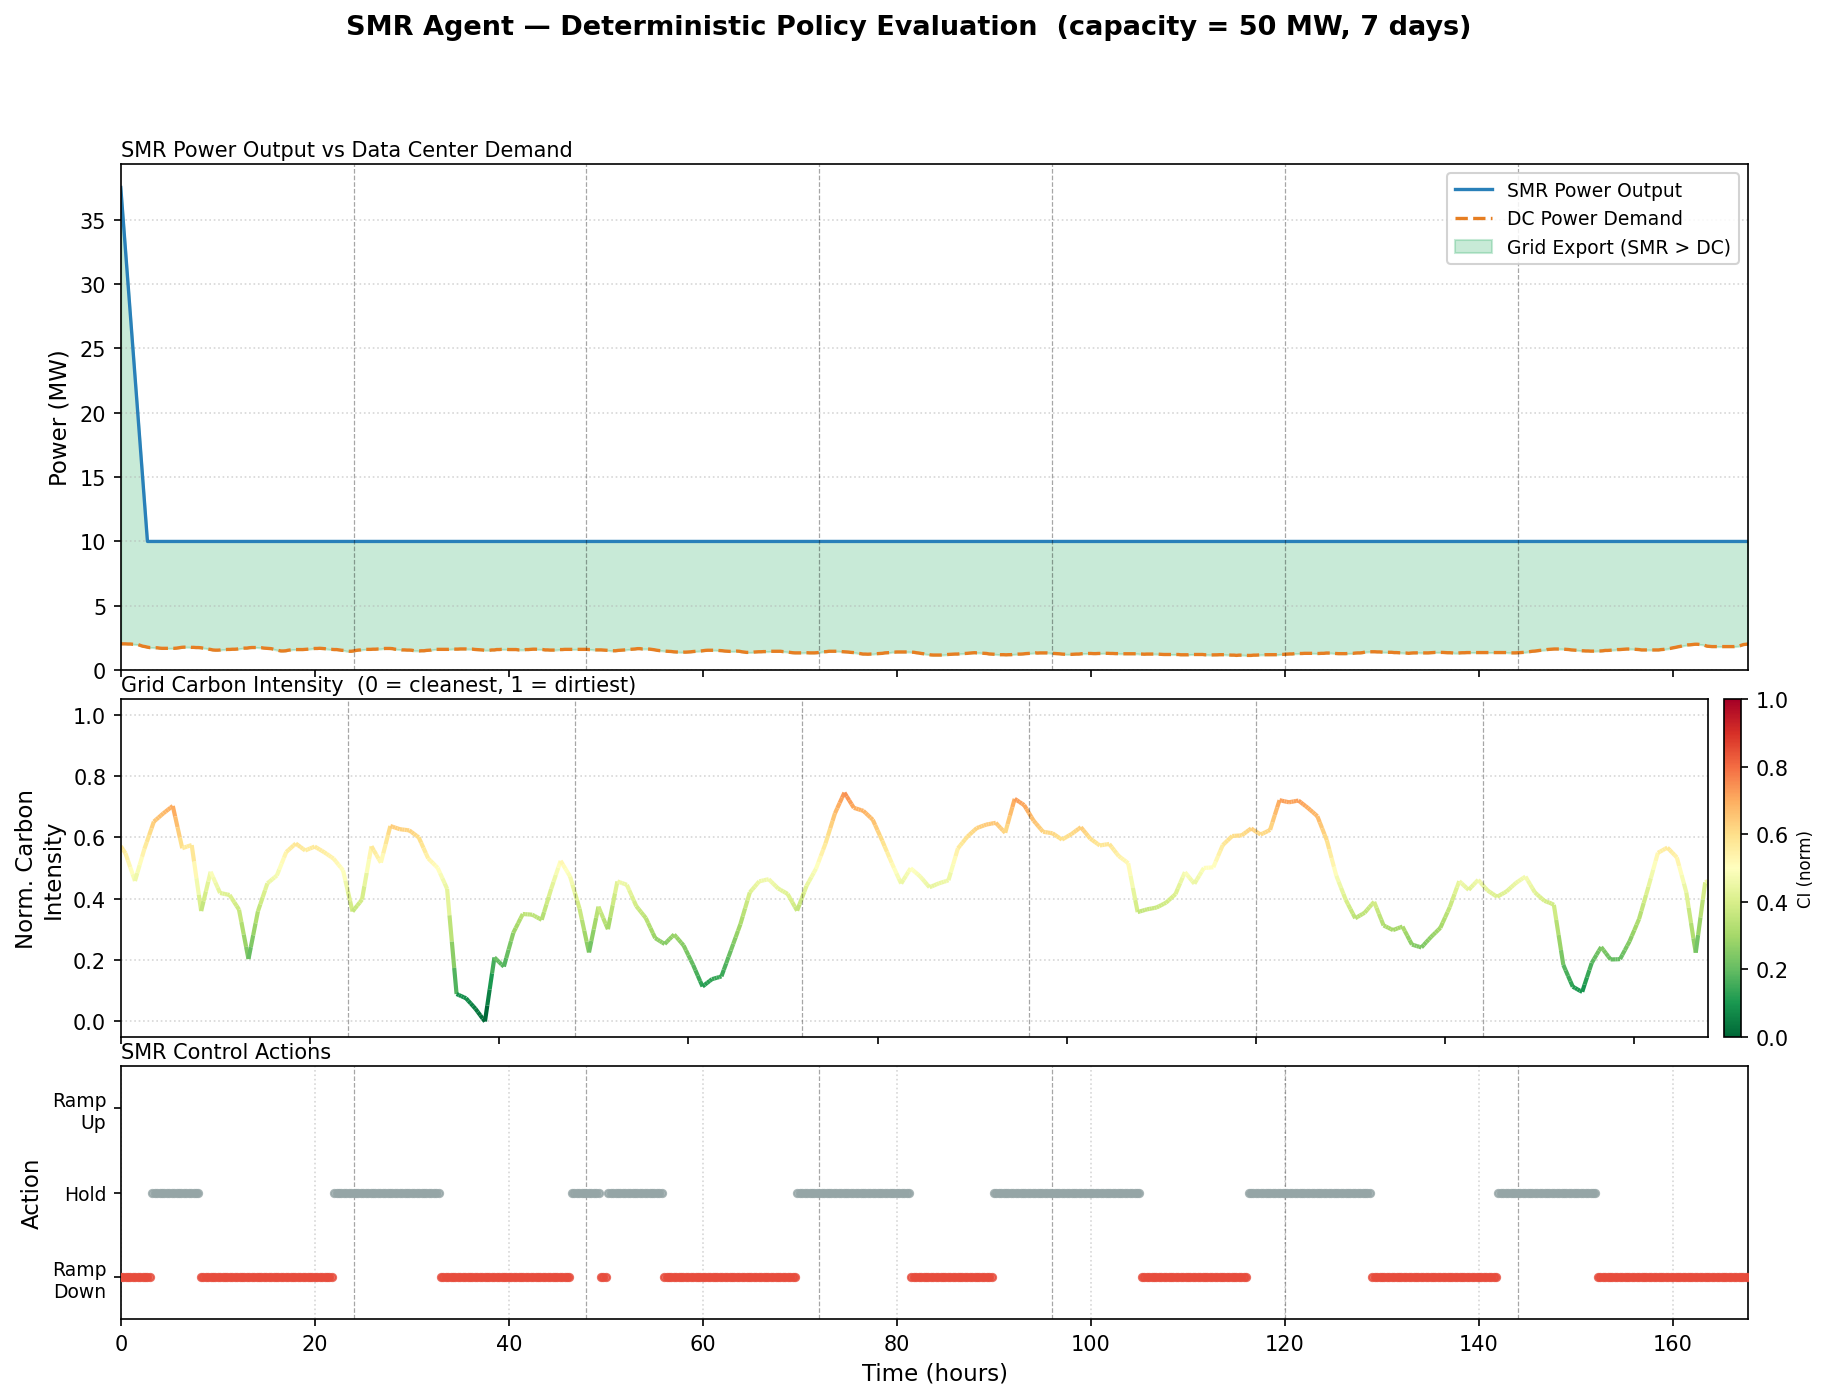
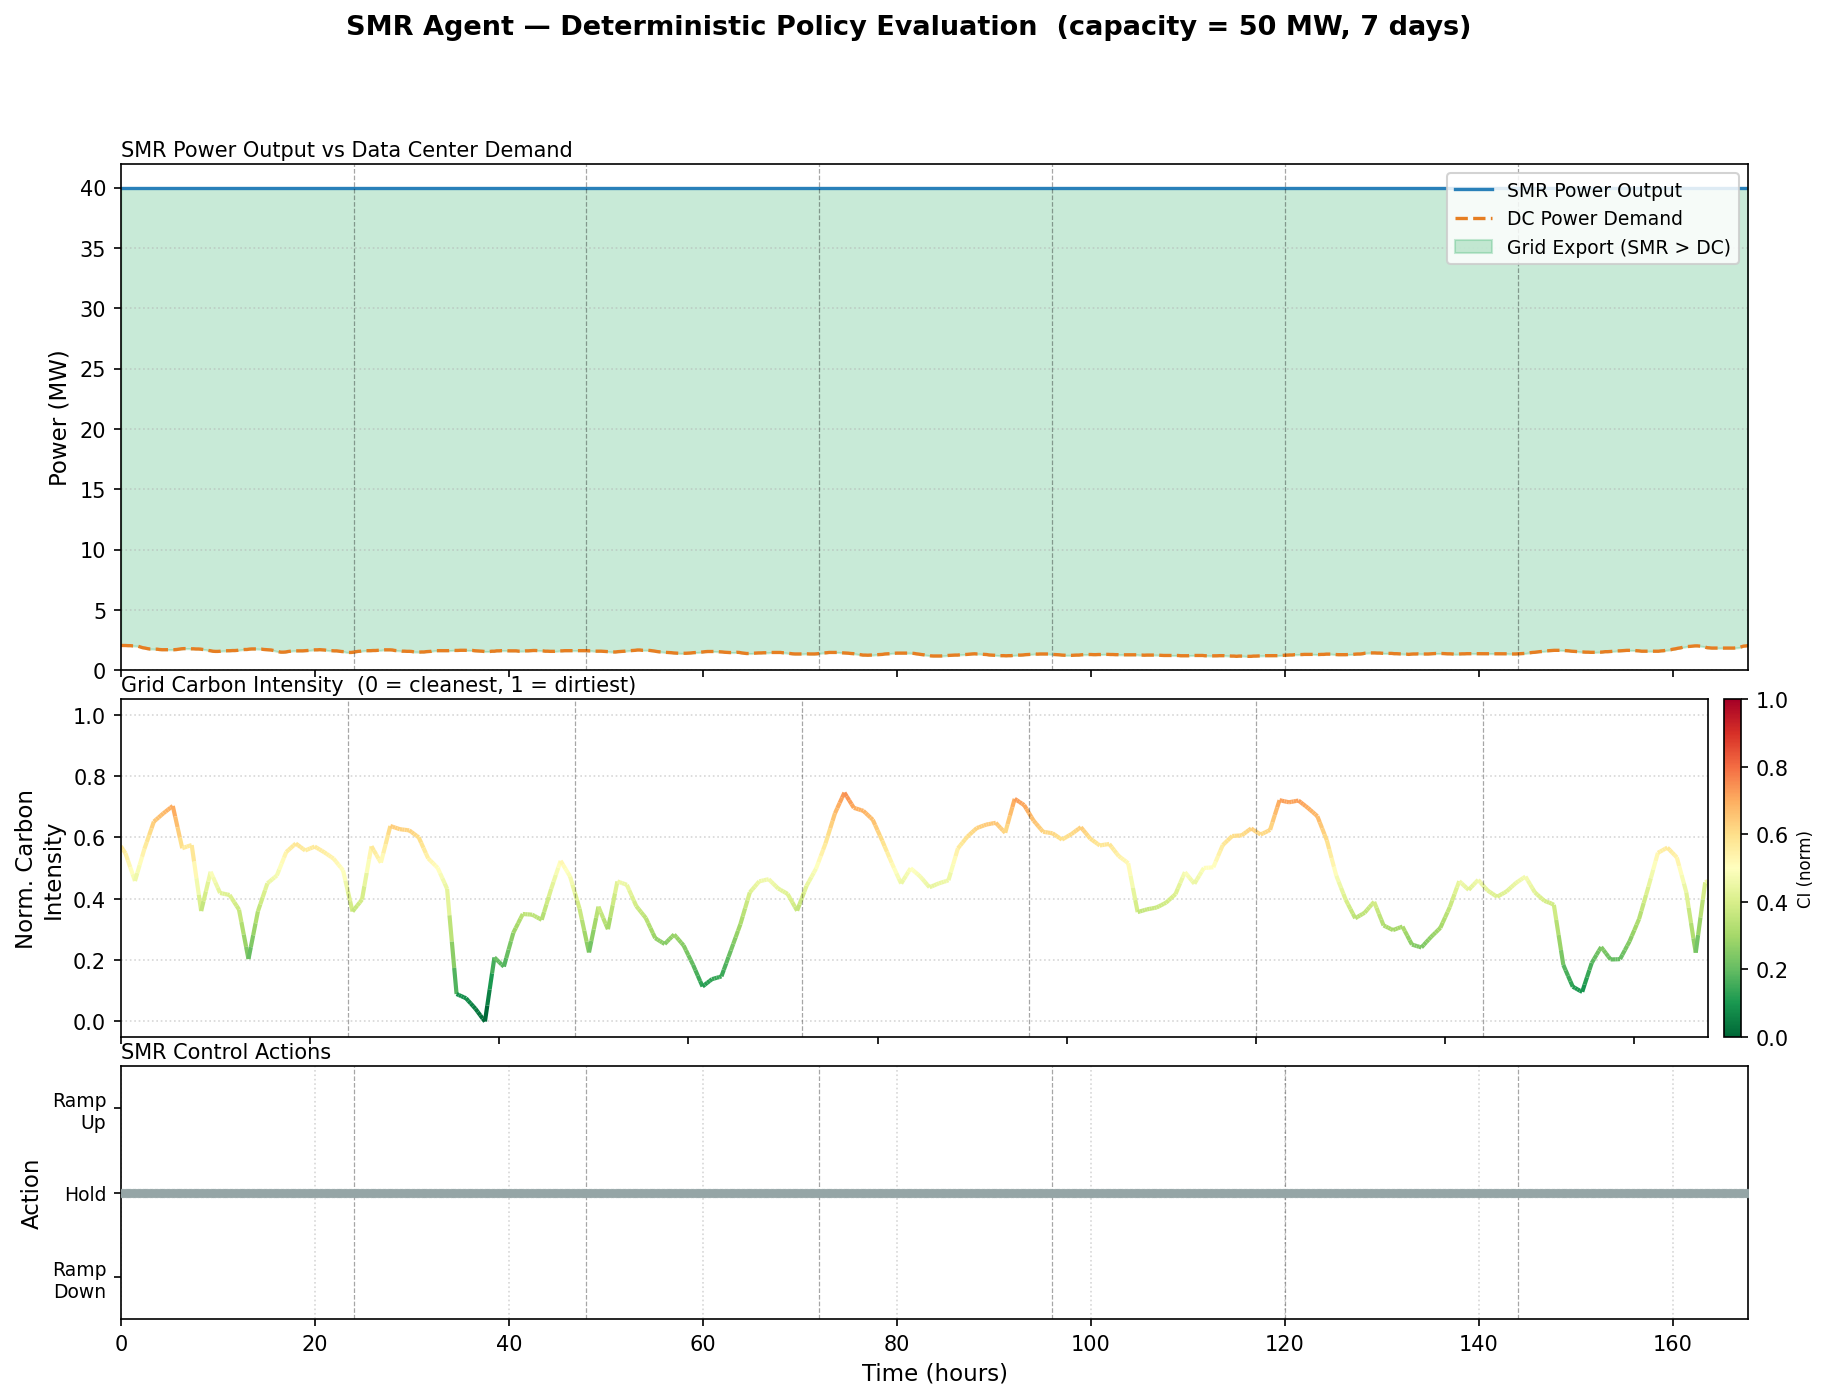
feat(smr): rewrite SMR reward as carbon-displacing load follower
Introduce R_op_cost (-c_op * smr_power_fraction, c_op=0.4) so the net
carbon signal becomes smr_power_fraction * (norm_CI - 0.4): negative
below the CI threshold (forces ramp-down on a clean grid) and positive
above it (rewards ramp-up when grid is dirty).

Fix the R_econ export term from (norm_CI * w_export) to
((norm_CI - ci_threshold) * w_export), closing the "constant-max-power"
loophole: the agent is now penalised for exporting during clean-grid
valleys (simulates negative market pricing) and rewarded only when it
displaces fossil generation during dirty-grid peaks.

Existing safeguards kept: c_wear=0.02 (Phase-6 audit) and r_boundary=-5.0.

Also update eval_smr.py checkpoint path and regenerated eval plot.

diff --git a/utils/reward_creator.py b/utils/reward_creator.py
@@ -318,21 +318,58 @@ def water_usage_efficiency_reward(params: dict) -> float:
     return reward
 
 def default_smr_reward(params: dict) -> float:
-    """Reward for the SMR agent.
+    """Reward for the SMR agent — carbon-displacing load follower.
 
     Components
     ----------
-    R_carbon    : P_SMR_fraction * CI_norm
-                  Incentivises high output when the grid carbon intensity
-                  is high, maximising the clean-energy displacement value.
-    R_econ      : E_export_fraction * CI_norm * w_export   (w_export = 0.5)
-                  Bonus for back-to-grid export during high-CI periods;
-                  decoupled from the battery reward to avoid credit
-                  assignment conflicts.
-    R_stability : -c_wear * |a_t|   (c_wear = 0.1)
+    R_carbon    : smr_power_fraction * norm_CI
+                  Rewards high SMR output proportional to how dirty the grid
+                  is at that moment.
+
+    R_op_cost   : -c_op * smr_power_fraction   (c_op = 0.4)
+                  Continuous operational cost that scales with output power.
+                  Combined with R_carbon this gives a net signal of
+                  smr_power_fraction * (norm_CI - c_op): positive only when
+                  the grid is dirtier than ci_threshold.  The agent is
+                  indifferent between P_min and P_max at exactly
+                  norm_CI == ci_threshold (0.4); it ramps down below the
+                  threshold and up above it.
+
+    R_econ      : export_fraction * (norm_CI - ci_threshold) * w_export
+                  (ci_threshold = 0.4, w_export = 0.5)
+                  Rewards exporting to the grid when it is dirty
+                  (norm_CI > 0.4, simulating positive spot price).
+                  Penalises exporting when the grid is already clean
+                  (norm_CI < 0.4, simulating negative market pricing /
+                  renewable curtailment).  Closes the "constant-max-power"
+                  loophole: the agent cannot harvest R_econ by running
+                  flat-out during clean-grid valleys.
+
+    R_stability : -c_wear * |a_t|   (c_wear = 0.02)
                   Penalises unnecessary control-rod movements (wear).
-    R_boundary  : -5.0 if the action attempts to exceed P_max or go below P_min.
-                  Strict penalty for requesting a physically impossible ramp.
+                  With delta_ramp = 0.05 × P_max the break-even immediate
+                  signal requires norm_CI ≈ 0.8; the agent's discounted
+                  value function (gamma = 0.995) overcomes this barrier
+                  well before CI reaches that level.
+
+    R_boundary  : -5.0 if the action attempts to exceed P_max or drop
+                  below P_min.  Strict penalty for physically illegal ramps.
+
+    Coefficient design
+    ------------------
+    ci_threshold = 0.4   grid "cleanliness" crossover
+    c_op         = 0.4   equals ci_threshold so R_carbon + R_op_cost = 0
+                          at any power level when norm_CI == ci_threshold
+    w_export     = 0.5   export bonus weight (decoupled from bat reward)
+    c_wear       = 0.02  ramp-wear penalty (fixed from Phase-6 audit)
+    r_boundary   = -5.0  hard stop at physics limits
+
+    Worked examples (no exports, holding action)
+    --------------------------------------------
+    norm_CI=0.1, p_frac=1.0:  0.10 - 0.40 = -0.30  ← penalised at P_max
+    norm_CI=0.4, p_frac=1.0:  0.40 - 0.40 =  0.00  ← indifferent at threshold
+    norm_CI=0.8, p_frac=1.0:  0.80 - 0.40 = +0.40  ← rewarded at P_max
+    norm_CI=0.1, p_frac=0.2:  0.02 - 0.08 = -0.06  ← preferred over P_max on clean grid
 
     Args:
         params (dict): Must contain:
@@ -353,28 +390,34 @@ def default_smr_reward(params: dict) -> float:
     boundary_hit       = params['smr_boundary_hit']
     max_smr_kw         = params['max_smr_capacity_mw'] * 1000.0
 
+    # Threshold below which exporting is penalised (simulates negative pricing)
+    ci_threshold = 0.4
+
     # R_carbon: reward high SMR output when grid CI is high
     r_carbon = smr_power_fraction * norm_ci
 
-    # R_econ: reward back-to-grid export when CI is high
+    # R_op_cost: running cost proportional to output power.
+    # c_op == ci_threshold ensures R_carbon + R_op_cost =
+    # smr_power_fraction * (norm_CI - ci_threshold): zero at the threshold,
+    # negative below it, positive above it.
+    c_op      = 0.4
+    r_op_cost = -c_op * smr_power_fraction
+
+    # R_econ: reward/penalise back-to-grid export based on grid cleanliness.
+    # Positive when norm_CI > ci_threshold (dirty grid: displace fossil fuels).
+    # Negative when norm_CI < ci_threshold (clean grid: over-generation penalty).
     w_export        = 0.5
     export_fraction = smr_grid_export_kw / max(max_smr_kw, 1e-9)
-    r_econ          = export_fraction * norm_ci * w_export
+    r_econ          = export_fraction * (norm_ci - ci_threshold) * w_export
 
     # R_stability: penalise control-rod ramp actions (wear).
-    # c_wear must be smaller than the marginal one-step reward gain from
-    # a single ramp (≈ 0.05 * CI * 1.5 ≈ 0.037 at CI=0.5) so the agent
-    # always receives a net-positive immediate signal for ramping toward
-    # the optimal power level.  c_wear=0.1 exceeded that threshold and
-    # produced a lazy-hold policy; 0.02 keeps the penalty meaningful
-    # without masking the carbon-reward gradient.
     c_wear      = 0.02
     r_stability = -c_wear * abs(ramp_dir)
 
     # R_boundary: strict penalty for attempted illegal physics action
     r_boundary = -5.0 if boundary_hit else 0.0
 
-    total_reward = r_carbon + r_econ + r_stability + r_boundary
+    total_reward = r_carbon + r_op_cost + r_econ + r_stability + r_boundary
     return float(np.clip(total_reward, -10.0, 10.0))
 
 

diff --git a/eval_smr.py b/eval_smr.py
@@ -55,7 +55,7 @@ from harl.utils.trans_tools import _t2n
 # ============================================================
 MODEL_CHECKPOINT_DIR = (
     "./results/sustaindc/ny/happo/smr_4agent/"
-    "seed-00001-2026-03-25-13-31-57/models"
+    "seed-00001-2026-03-25-14-22-00/models"
 )
 # ============================================================
 
